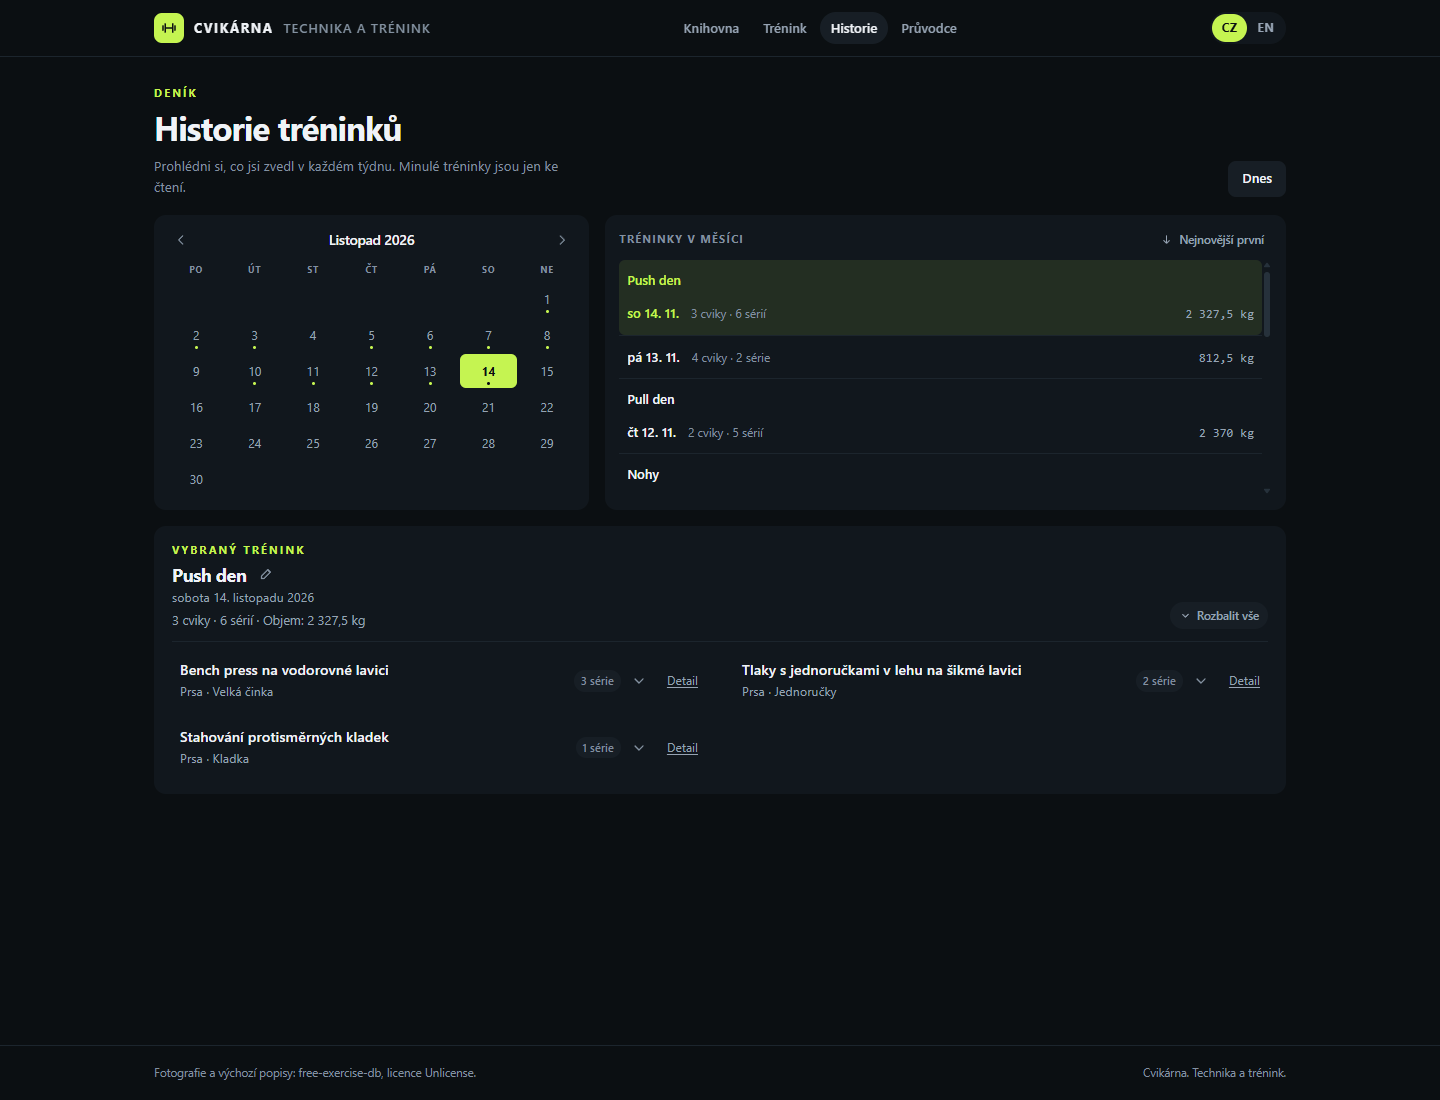
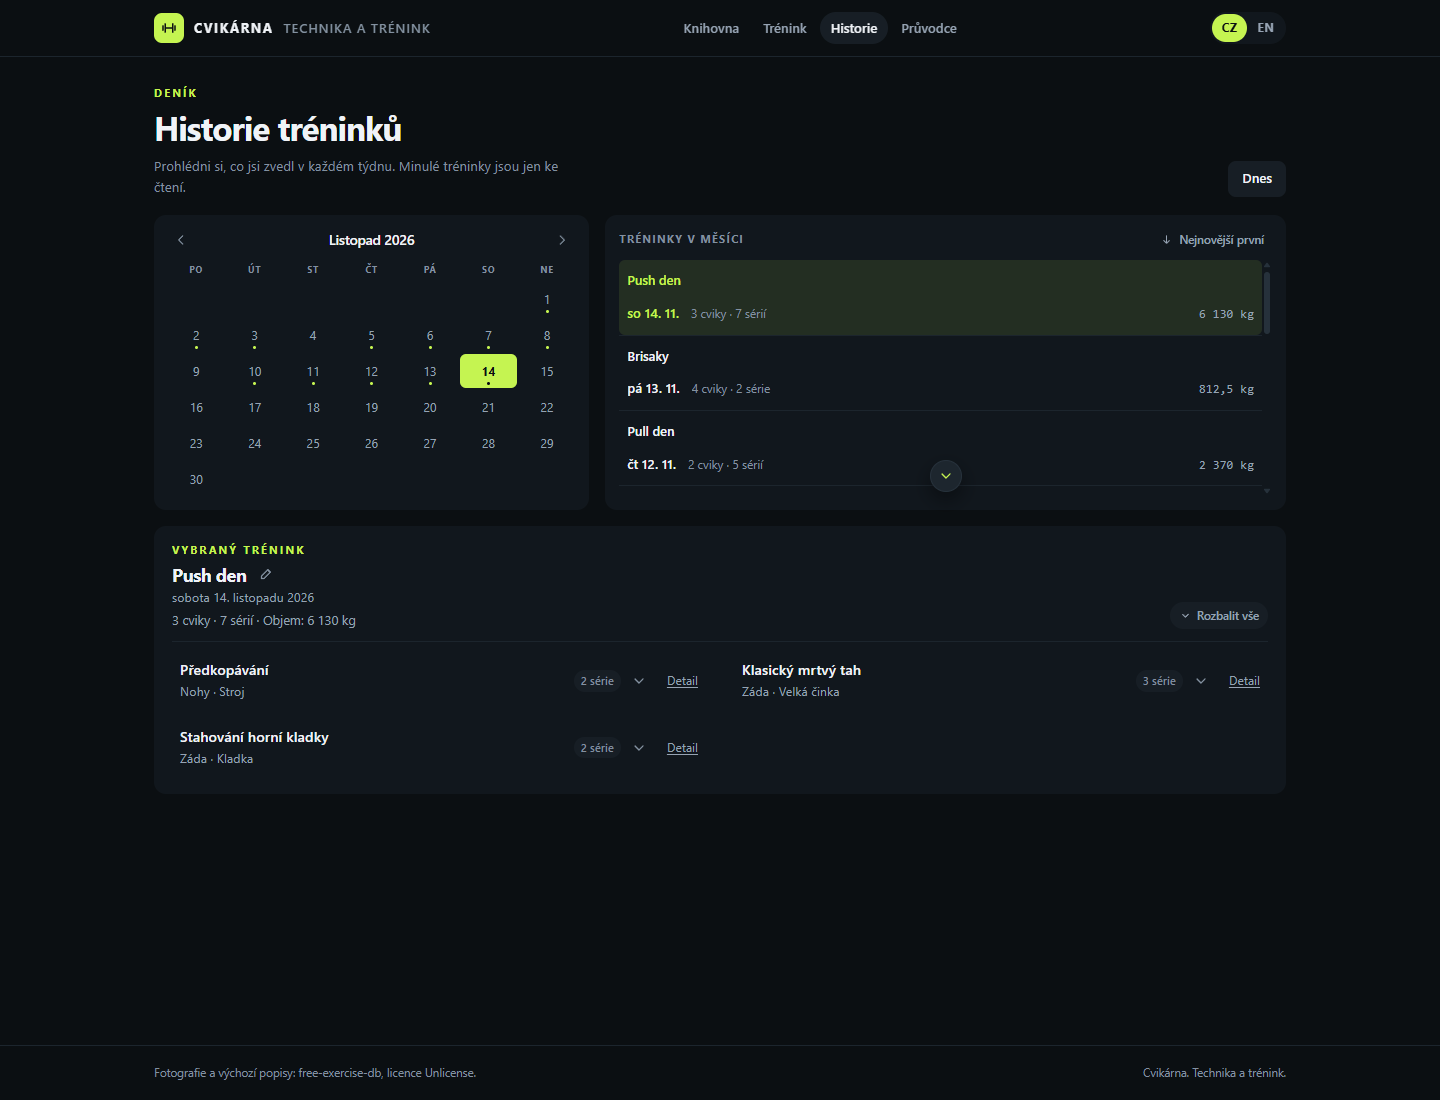
docs: refresh the README and the history screenshot
- Describe the 120-movement library, the level filter, the batches and the copy rule
- Recapture the history image for the scroll cue

diff --git a/README.md b/README.md
@@ -1,6 +1,6 @@
 # Cvikárna
 
-Cvikárna is a Czech-first gym app for building muscle with the equipment you have. It carries 40 curated movements with technique and cues, an 876-movement catalogue, a tracker, a month-by-month history and a sourced beginner guide. The app runs on React and TypeScript in the browser, with an ASP.NET Core API and SQLite behind it. Dark theme, Czech and English, demo project.
+Cvikárna is a Czech-first gym app for building muscle with the equipment you have. It carries 120 curated movements with technique and cues, an 876-movement catalogue, a tracker, a month-by-month history and a sourced beginner guide. The app runs on React and TypeScript in the browser, with an ASP.NET Core API and SQLite behind it. Dark theme, Czech and English, demo project.
 
 [github.com/antalnn/cvikarna](https://github.com/antalnn/cvikarna)
 
@@ -26,19 +26,19 @@ Cvikárna is a Czech-first gym app for building muscle with the equipment you ha
 
 ### Library and technique
 
-The library holds 40 movements with a photo, both names, aliases, numbered steps and cues. Filter by muscle group and by the equipment you own. Search ignores diacritics, so `mrty tah` finds `mrtvý tah`, and it forgives one wrong letter in a word of four letters or more. The detail page pairs the demonstration photo with the numbered steps, then lists the cues as plain lines and ends with similar movements.
+The library holds 120 movements with a photo, both names, aliases, numbered steps and cues. Filter by muscle group, by the equipment you own and by level. Search ignores diacritics, so `mrty tah` finds `mrtvý tah`, and it forgives one wrong letter in a word of four letters or more. The grid renders 20 movements at a time and appends the next 20 with a button, so a filter or search change always starts from the top. The detail page pairs the demonstration photo with the numbered steps, then lists the cues as plain lines and ends with similar movements.
 
 ![Cvikárna exercise detail with numbered steps and cues](docs/images/detail.png)
 
 ### Tracker
 
-The tracker opens today's session. Name it, and rename it later from the pencil beside the title. Add a movement from the library or from the full catalogue, then log weight, reps, RPE and a note for each set. The RPE question mark explains the 1 to 10 scale. Drag a set or an exercise to reorder it, or focus its handle and press Arrow Up or Arrow Down. Copy a past workout repeats its exercises, sets, weights, reps, RPE and notes in today's session, in the same order.
+The tracker opens today's session. Name it, and rename it later from the pencil beside the title. Add a movement from the library or from the full catalogue, then log weight, reps, RPE and a note for each set. The RPE question mark explains the 1 to 10 scale. Drag a set or an exercise to reorder it, or focus its handle and press Arrow Up or Arrow Down. Copy a past workout replaces today's session with the source's exercises, sets, weights, reps, RPE, notes and name.
 
 ![Cvikárna tracker with a named session, logged sets and the copy button](docs/images/tracker.png)
 
 ### History
 
-The calendar marks only days that have exercises. The month panel lists those workouts, newest or oldest first, with exercise count, set count and volume. A selected workout opens as a read-only log with collapsible exercise groups, one shared column header and a Detail link per movement. A named workout shows its name in the month list and above the date, and the pencil there renames it without leaving the page.
+The calendar marks only days that have exercises. The month panel lists those workouts, newest or oldest first, with exercise count, set count and volume. When the list runs past the panel, a small down arrow scrolls it, and the arrow disappears at the bottom. A selected workout opens as a read-only log with collapsible exercise groups, one shared column header and a Detail link per movement. A named workout shows its name in the month list and above the date, and the pencil there renames it without leaving the page.
 
 ![Cvikárna history with a named workout and a read-only log](docs/images/history.png)
 
@@ -54,7 +54,7 @@ Czech is the default and English is one click away. The choice lives in `localSt
 
 ## The exercise library
 
-The 40 curated movements, grouped by primary muscle. The Czech name is the one the app shows by default, and the English name is what the other language switches to. The watch-for line is the first cue from the seed data, not a new summary.
+The 120 curated movements, grouped by primary muscle. The Czech name is the one the app shows by default, and the English name is what the other language switches to. The watch-for line is the first cue from the seed data, not a new summary. Eight movements use the English name because no Czech source page names them, and a few keep an English term that Czech gyms use (Plank, Superman, Farmer's walk); [docs/name-sources.md](docs/name-sources.md) records which is which.
 
 **Chest**
 
@@ -66,6 +66,17 @@ The 40 curated movements, grouped by primary muscle. The Czech name is the one t
 | Tlaky s jednoručkami v lehu na šikmé lavici | Incline Dumbbell Press | Dumbbells | Beginner | Keep the elbows at about 45 degrees from the torso. |
 | Stahování protisměrných kladek | Cable Crossover | Cable | Beginner | Think about hugging a tree, not pressing. |
 | Rozpažky na vodorovné lavici | Dumbbell Fly | Dumbbells | Beginner | This is a stretch, not a press, keep the elbow angle fixed. |
+| Kliky | Pushups | Bodyweight | Beginner | The hands stay under the shoulders, not in front of them. |
+| Benchpress na šikmé lavici hlavou dolů | Decline Barbell Bench Press | Barbell | Beginner | Lower the bar to the lower chest, not toward the stomach. |
+| Rozpažky s jednoručkami na šikmé lavici | Incline Dumbbell Flyes | Dumbbells | Beginner | The elbow angle stays fixed, this is not a press. |
+| Tlaky s jednoručkami na vodorovné lavici neutrálním úchopem | Dumbbell Bench Press with Neutral Grip | Dumbbells | Beginner | The wrists stay stacked over the elbows the whole way. |
+| Rozpažování na protisměrných kladkách vleže | Flat Bench Cable Flyes | Cable | Intermediate | The elbows keep the same small bend throughout. |
+| Tlaky na šikmé lavici na spodních kladkách | Incline Cable Chest Press | Cable | Beginner | Keep the wrists over the elbows, not behind them. |
+| Tlaky na prsa na kladce ve stoje | Cable Chest Press | Cable | Beginner | The torso stays upright, do not lean into the press. |
+| Tlaky na stroji na prsa | Machine Bench Press | Machine | Beginner | Keep the shoulders down and back against the pad. |
+| Kliky na bradlech | Dips - Chest Version | Accessory | Intermediate | Lean forward to keep the work on the chest. |
+| Kliky o vyvýšenou podložku | Incline Push-Up | Bodyweight | Beginner | The higher the hands, the easier the rep. |
+| Svend press | Svend Press | Accessory | Beginner | Press the palms into the plates the whole time. |
 
 **Back**
 
@@ -77,6 +88,20 @@ The 40 curated movements, grouped by primary muscle. The Czech name is the one t
 | Stahování horní kladky | Wide-Grip Lat Pulldown | Cable | Beginner | Aim the chest up to meet the bar. |
 | Přítahy spodní kladky | Seated Cable Row | Cable | Beginner | Keep the torso upright, do not row with the lower back. |
 | Přítahy jednoručky v předklonu | One-Arm Dumbbell Row | Dumbbells | Beginner | Do not rotate the torso to lift the weight. |
+| Shyby podhmatem | Chin-Up | Bodyweight | Beginner | Start the pull from the shoulder blades, not the arms. |
+| Krčení ramen s osou | Barbell Shrug | Barbell | Beginner | Do not roll the shoulders, go straight up and down. |
+| Přítahy jednoruček v předklonu | Bent Over Two-Dumbbell Row | Dumbbells | Beginner | The torso stays still, do not rise up with each rep. |
+| Přítahy na T-ose | T-Bar Row with Handle | Barbell | Beginner | Keep the chest up and the back flat. |
+| Přítahy v náklonu | Inverted Row | Accessory | Beginner | Squeeze the glutes so the hips stay in line. |
+| Stahování kladky s napnutými pažemi | Straight-Arm Pulldown | Cable | Beginner | Only the shoulders move, the elbows stay locked. |
+| Stahování horní kladky s V-madlem | V-Bar Pulldown | Cable | Intermediate | Let the shoulder blades rise at the top, then pull them down. |
+| Stahování horní kladky podhmatem | Underhand Cable Pulldowns | Cable | Beginner | Keep the wrists straight, do not curl them. |
+| Přítahy jednoruček na šikmé lavici | Dumbbell Incline Row | Dumbbells | Beginner | Keep the chest on the pad for the whole set. |
+| Veslování v lehu na pákovém T-bar stroji | Lying T-Bar Row | Machine | Intermediate | Keep the chest glued to the pad for the whole set. |
+| Rack pull | Rack Pulls | Barbell | Intermediate | Start from a dead stop, do not bounce the bar off the pins. |
+| Deficitní mrtvý tah | Deficit Deadlift | Barbell | Intermediate | The longer range makes the start harder, so use less weight than your normal deadlift. |
+| Hyperextenze | Hyperextensions (Back Extensions) | Accessory | Beginner | Stop at a straight line, do not arch past it. |
+| Superman | Superman | Bodyweight | Beginner | Lift with the back and glutes, do not throw the head up. |
 
 **Shoulders**
 
@@ -87,6 +112,18 @@ The 40 curated movements, grouped by primary muscle. The Czech name is the one t
 | Upažování s jednoručkami | Side Lateral Raise | Dumbbells | Beginner | Lead with the elbows, not the hands. |
 | Upažování s jednoručkami v předklonu | Reverse Fly | Dumbbells | Beginner | Think about squeezing the shoulder blades together. |
 | Face pull | Face Pull | Cable | Intermediate | Finish with the hands beside the ears and the elbows high. |
+| Arnold press | Arnold Dumbbell Press | Dumbbells | Intermediate | Rotate smoothly, the turn happens through the press. |
+| Předpažování s jednoručkami | Front Dumbbell Raise | Dumbbells | Beginner | Stop at shoulder height, higher is not better. |
+| Upažování na kladce v sedě | Cable Seated Lateral Raise | Cable | Beginner | Keep the torso still against the bench. |
+| Upažování v předklonu v sedě | Seated Bent-Over Rear Delt Raise | Dumbbells | Intermediate | Keep the chest down, do not sit up as you lift. |
+| Obrácený motýlek | Reverse Machine Flyes | Machine | Beginner | Keep the chest on the pad. |
+| Rozpažování na zadní ramena na kladce | Cable Rear Delt Fly | Cable | Beginner | Keep the elbow almost straight, only the shoulder moves. |
+| Tlaky na ramenním stroji | Machine Shoulder (Military) Press | Machine | Beginner | Keep the back on the pad the whole time. |
+| Push press | Push Press | Barbell | Expert | The dip is short and vertical, the torso stays upright. |
+| Přítahy osy k bradě | Upright Barbell Row | Barbell | Beginner | Stop at chest height, higher is not better. |
+| Tlaky s osou ve stoji | Standing Military Press | Barbell | Beginner | Keep the ribs down, do not arch to finish the press. |
+| Skapce s jednoručkami | Dumbbell Scaption | Dumbbells | Beginner | Keep the thumbs up for the whole rep. |
+| Roztahování gumičky | Band Pull Apart | Accessory | Beginner | Keep the elbows straight, do not bend them. |
 
 **Biceps**
 
@@ -96,6 +133,15 @@ The 40 curated movements, grouped by primary muscle. The Czech name is the one t
 | Bicepsový zdvih s jednoručkami | Dumbbell Curl | Dumbbells | Beginner | Rotating the wrist slightly outward adds a squeeze. |
 | Kladivový zdvih s jednoručkami | Hammer Curl | Dumbbells | Beginner | The thumbs point up the whole time. |
 | Bicepsový zdvih na Scottově lavici | Preacher Curl | Barbell | Beginner | The pad does the cheating prevention for you, use it. |
+| Bicepsový zdvih s EZ osou | EZ-Bar Curl | EZ bar | Beginner | The elbows stay still, only the forearms move. |
+| Koncentrované zdvihy s jednoručkou | Concentration Curls | Dumbbells | Beginner | Keep the elbow pressed against the thigh. |
+| Bicepsový zdvih na šikmé lavici | Incline Dumbbell Curl | Dumbbells | Beginner | Keep the upper arms still, the stretch at the bottom is the point. |
+| Cross Body Hammer Curl | Cross Body Hammer Curl | Dumbbells | Beginner | The elbow stays still, the forearm does the curling. |
+| Kladivové zdvihy na kladce s lanem | Cable Hammer Curls - Rope Attachment | Cable | Beginner | Keep both ends of the rope level. |
+| Bicepsový zdvih velkou činkou nadhmatem | Reverse Barbell Curl | Barbell | Beginner | Use less weight than you would on a normal curl. |
+| Spider Curl | Spider Curl | EZ bar | Beginner | Keep the chest on the pad, do not lift it to cheat the rep. |
+| Incline Hammer Curls | Incline Hammer Curls | Dumbbells | Beginner | The stretch at the bottom is the point, do not cut it short. |
+| Zottmanův zdvih | Zottman Curl | Dumbbells | Intermediate | Lower more slowly than you curl. |
 
 **Triceps**
 
@@ -105,6 +151,15 @@ The 40 curated movements, grouped by primary muscle. The Czech name is the one t
 | Tricepsový zdvih osy v lehu | Lying Triceps Extension | EZ bar | Intermediate | Only the forearms move. |
 | Stahování lana na triceps | Rope Triceps Pushdown | Cable | Beginner | Keep the elbows glued to the sides. |
 | Tricepsové stahování horní kladky s lanem přes hlavu | Overhead Cable Triceps Extension | Cable | Beginner | Keep the upper arms beside the head, not moving. |
+| Tricepsové kliky na bradlech | Dips - Triceps Version | Bodyweight | Beginner | An upright torso keeps the work on the triceps. |
+| Tricepsové kliky o lavičku | Bench Dips | Bodyweight | Beginner | Keep the hips close to the bench. |
+| Francouzský tlak s EZ osou v lehu | EZ-Bar Skullcrusher | EZ bar | Beginner | Only the elbows bend, the upper arms stay still. |
+| Stahování kladky na triceps | Triceps Pushdown | Cable | Beginner | Only the forearms move, the elbows stay put. |
+| Reverse Grip Triceps Pushdown | Reverse Grip Triceps Pushdown | Cable | Beginner | Keep the wrists straight, they will want to bend. |
+| Triceps Overhead Extension with Rope | Triceps Overhead Extension with Rope | Cable | Beginner | Keep the elbows narrow, they flare out when the weight is too heavy. |
+| Francouzský tlak s jednoručkou | Dumbbell One-Arm Triceps Extension | Dumbbells | Intermediate | Keep the elbow pointing at the ceiling. |
+| Tricepsové zapažování | Tricep Dumbbell Kickback | Dumbbells | Beginner | The upper arm does not move, it stays locked in place. |
+| Floor Press | Floor Press | Barbell | Intermediate | Do not bounce the elbows off the floor. |
 
 **Quads**
 
@@ -115,6 +170,14 @@ The 40 curated movements, grouped by primary muscle. The Czech name is the one t
 | Legpress na šikmé lavici | Leg Press | Machine | Beginner | Do not let the lower back round off the pad. |
 | Předkopávání | Leg Extension | Machine | Beginner | Squeeze the quads at the top for a second. |
 | Výpady v chůzi | Walking Lunge | Barbell | Beginner | The front knee stays over the foot. |
+| Smith Machine Squat | Smith Machine Squat | Machine | Beginner | Place the feet a little forward so the fixed bar path stays over the midfoot. |
+| Výpady s osou | Barbell Lunge | Barbell | Intermediate | Keep the front knee over the foot, not past the toes. |
+| Dřep na bednu | Box Squat | Barbell | Intermediate | Sit back, not straight down. |
+| Goblet squat | Goblet Squat | Accessory | Beginner | The weight at the chest keeps the torso upright. |
+| Hack squat | Hack Squat | Machine | Beginner | Keep the back and hips against the pad for the whole rep. |
+| Výpady s jednoručkami | Dumbbell Lunges | Dumbbells | Beginner | Take a long enough step that the front shin stays close to vertical. |
+| Výstupy na bednu s osou | Barbell Step Ups | Barbell | Intermediate | Put the whole foot on the box, not just the toes. |
+| Dřep s vlastní vahou | Bodyweight Squat | Bodyweight | Beginner | Knees travel in the direction of the toes. |
 
 **Hamstrings**
 
@@ -122,12 +185,20 @@ The 40 curated movements, grouped by primary muscle. The Czech name is the one t
 | --- | --- | --- | --- | --- |
 | Rumunský mrtvý tah | Romanian Deadlift | Barbell | Intermediate | The bar stays in contact with the thighs. |
 | Zakopávání v leže | Lying Leg Curl | Machine | Beginner | Keep the hips on the pad, do not lift them. |
+| Good morning s osou | Good Morning | Barbell | Intermediate | The movement is the hips going back, not the chest going down. |
+| Zakopávání v sedě | Seated Leg Curl | Machine | Beginner | Keep the hips down in the seat, do not let them lift. |
+| Mrtvý tah s rovnýma nohama | Stiff-Legged Barbell Deadlift | Barbell | Intermediate | The bar stays in contact with the legs the whole way down. |
+| Sumo mrtvý tah | Sumo Deadlift | Barbell | Intermediate | Knees track out over the toes the whole way up. |
+| Glute ham raise | Glute Ham Raise | Machine | Intermediate | Squeeze the glutes so the hips stay in line with the torso. |
 
 **Glutes**
 
 | Czech name | English name | Equipment | Level | Watch for |
 | --- | --- | --- | --- | --- |
 | Hip thrust | Barbell Hip Thrust | Barbell | Intermediate | Tuck the chin and keep the ribs down at the top. |
+| Glute bridge s osou | Barbell Glute Bridge | Barbell | Intermediate | Tuck the chin and keep the ribs down at the top. |
+| Zanožování na kladce | One-Legged Cable Kickback | Cable | Intermediate | The movement comes from the hip, not from the lower back. |
+| Pull through | Pull Through | Cable | Beginner | The hips go back and the knees stay softly bent. |
 
 **Calves**
 
@@ -135,6 +206,8 @@ The 40 curated movements, grouped by primary muscle. The Czech name is the one t
 | --- | --- | --- | --- | --- |
 | Výpony na lýtka ve stoje | Standing Calf Raise | Machine | Beginner | Full range, from deep stretch to full contraction. |
 | Výpony na lýtka v sedě | Seated Calf Raise | Machine | Beginner | The bent knee targets the soleus, that is intended. |
+| Výpony na legpressu | Calf Press On The Leg Press Machine | Machine | Beginner | Keep the knees almost straight but not hard locked. |
+| Výpony s jednoručkami ve stoje | Standing Dumbbell Calf Raise | Dumbbells | Intermediate | Pause for a moment at the top of each rep. |
 
 **Core**
 
@@ -145,6 +218,19 @@ The 40 curated movements, grouped by primary muscle. The Czech name is the one t
 | Zkracovačky na horní kladce | Cable Crunch | Cable | Beginner | Crunch the ribs down, do not pull with the arms. |
 | Rollout s kolečkem | Ab Roller Rollout | Accessory | Intermediate | Go only as far as you can keep the ribs down. |
 | Pallof press | Pallof Press | Cable | Beginner | Resist the pull, do not let the torso twist. |
+| Zkracovačky | Crunches | Bodyweight | Beginner | Do not pull on the head with the hands. |
+| Pike ve visu | Hanging Pike | Bodyweight | Expert | Start the rep from the pelvis, not from the feet. |
+| Ruský twist | Russian Twist | Bodyweight | Intermediate | Rotate the ribs, not just the arms. |
+| Boční plank | Side Bridge | Bodyweight | Beginner | Push the forearm into the floor to stay stable. |
+| Zkracovačky na šikmé lavici hlavou dolů | Decline Crunch | Bodyweight | Intermediate | The range is short, do not sit all the way up. |
+
+**Grip**
+
+| Czech name | English name | Equipment | Level | Watch for |
+| --- | --- | --- | --- | --- |
+| Farmer's walk | Farmer's Walk | Accessory | Intermediate | Do not shrug or lean to one side. |
+| Plate Pinch | Plate Pinch | Accessory | Intermediate | The thumb works as hard as the fingers. |
+
 
 ## Architecture
 
@@ -176,7 +262,7 @@ Start the API from the repository root:
 dotnet run --project api --launch-profile http
 ```
 
-The API answers at `http://localhost:5073`. The first run creates `cvikarna.db`, applies the migrations and seeds the 40 library rows and 876 catalogue rows. Swagger is at `http://localhost:5073/swagger` in Development.
+The API answers at `http://localhost:5073`. The first run creates `cvikarna.db`, applies the migrations and seeds the 120 library rows and 876 catalogue rows. Swagger is at `http://localhost:5073/swagger` in Development.
 
 Start the web app in a second terminal:
 
@@ -201,13 +287,12 @@ npm run lint
 npm run build
 ```
 
-The server suite has 48 tests. It covers search and diacritic normalization, catalogue ids, stats formulas, the read API, workout sessions, set validation, set and exercise reorder, workout names and copying a workout.
+The server suite has 50 tests. It covers search and diacritic normalization, catalogue ids, stats formulas, the read API, muscle, equipment and level filters, workout sessions, set validation, set and exercise reorder, workout names and copying a workout.
 
 ## Data
 
-The 40 curated movements, their English names and their photos come from [free-exercise-db](https://github.com/yuhonas/free-exercise-db), released into the public domain under the Unlicense. Czech names are checked against Czech gym sources.
-
-The catalogue is built from the same dataset. It keeps four display fields per movement and no Czech name outside the curated 40. `nameCs` is null there, and the UI falls back to English instead of inventing a translation.
+The 120 curated movements, their English names and their photos come from [free-exercise-db](https://github.com/yuhonas/free-exercise-db), released into the public domain under the Unlicense. Czech names are checked against Czech gym sources that state a page per movement. Eight movements ship the English name because no Czech source names them; [docs/name-sources.md](docs/name-sources.md) records the page behind every Czech name and lists the eight fallbacks.
+The catalogue is built from the same dataset. It keeps four display fields per movement and no Czech name outside the curated 120. `nameCs` is null there, and the UI falls back to English instead of inventing a translation.
 
 The guide lists its papers in the app and in [docs/sources.md](docs/sources.md), with the claim each paper supports and what it does not show.
 
